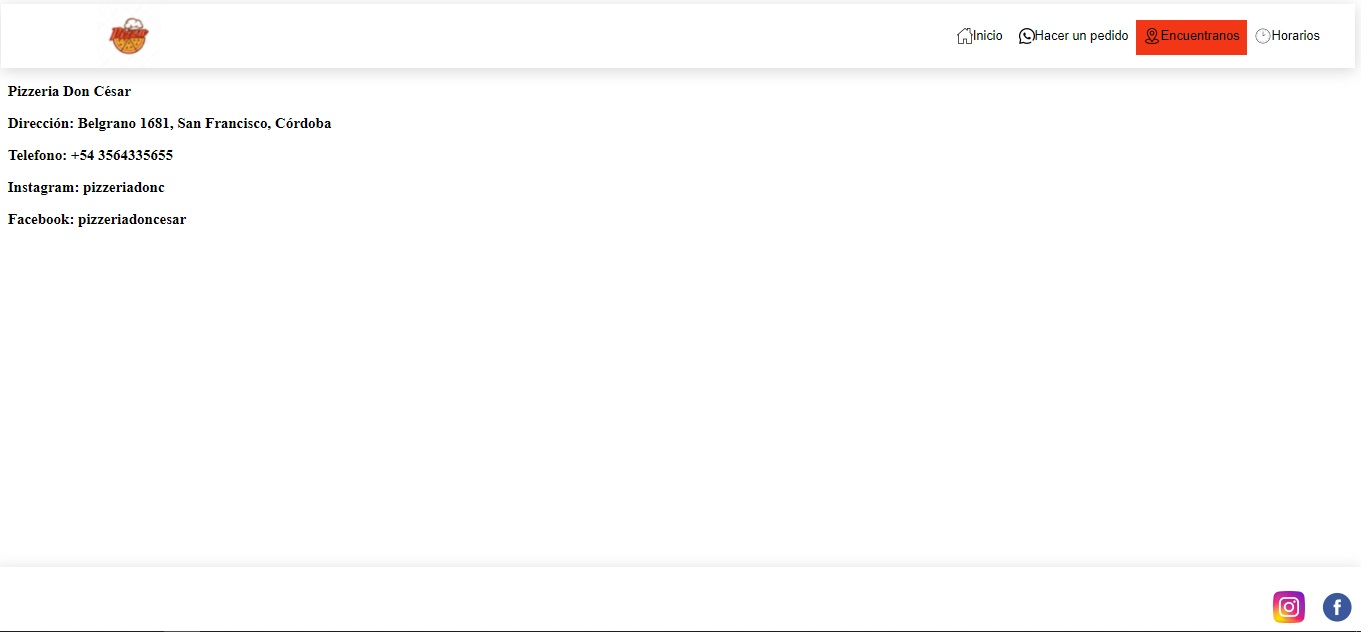
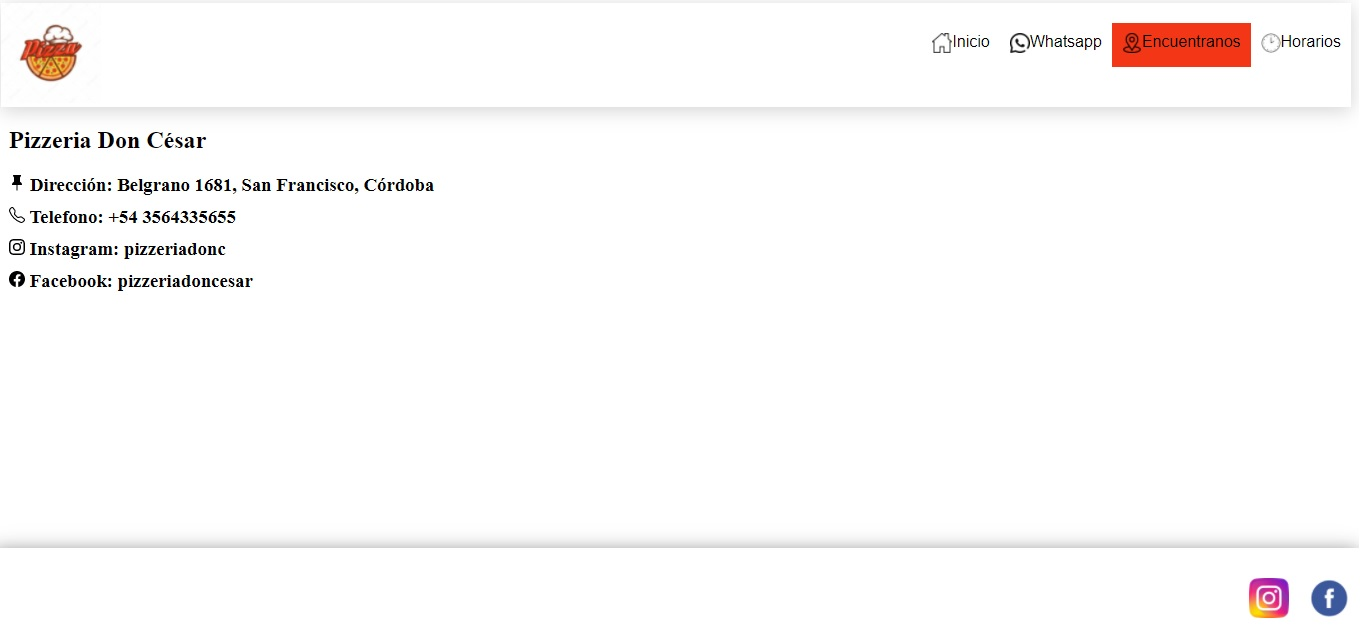
adjustFooter

diff --git a/src/app/componentes/contact/contact.component.html b/src/app/componentes/contact/contact.component.html
@@ -1,6 +1,36 @@
-<h3>Pizzeria Don César</h3>
-<h3>Dirección: Belgrano 1681, San Francisco, Córdoba
-</h3>
-<h3>Telefono: +54 3564335655</h3>
-<h3>Instagram: pizzeriadonc</h3>
-<h3>Facebook: pizzeriadoncesar</h3>
+
+<div>
+    <h2>Pizzeria Don César</h2>
+</div>
+
+
+<div class="d-flex">
+    <svg xmlns="http://www.w3.org/2000/svg" width="16" height="16" fill="currentColor" class="bi bi-pin-fill" viewBox="0 0 16 16">
+        <path d="M4.146.146A.5.5 0 0 1 4.5 0h7a.5.5 0 0 1 .5.5c0 .68-.342 1.174-.646 1.479-.126.125-.25.224-.354.298v4.431l.078.048c.203.127.476.314.751.555C12.36 7.775 13 8.527 13 9.5a.5.5 0 0 1-.5.5h-4v4.5c0 .276-.224 1.5-.5 1.5s-.5-1.224-.5-1.5V10h-4a.5.5 0 0 1-.5-.5c0-.973.64-1.725 1.17-2.189A5.921 5.921 0 0 1 5 6.708V2.277a2.77 2.77 0 0 1-.354-.298C4.342 1.674 4 1.179 4 .5a.5.5 0 0 1 .146-.354z"/>
+      </svg>
+      <h3>   Dirección: Belgrano 1681, San Francisco, Córdoba</h3>
+</div>
+
+
+
+<div class="d-flex">
+    <svg xmlns="http://www.w3.org/2000/svg" width="16" height="16" fill="currentColor" class="bi bi-telephone" viewBox="0 0 16 16">
+        <path d="M3.654 1.328a.678.678 0 0 0-1.015-.063L1.605 2.3c-.483.484-.661 1.169-.45 1.77a17.568 17.568 0 0 0 4.168 6.608 17.569 17.569 0 0 0 6.608 4.168c.601.211 1.286.033 1.77-.45l1.034-1.034a.678.678 0 0 0-.063-1.015l-2.307-1.794a.678.678 0 0 0-.58-.122l-2.19.547a1.745 1.745 0 0 1-1.657-.459L5.482 8.062a1.745 1.745 0 0 1-.46-1.657l.548-2.19a.678.678 0 0 0-.122-.58L3.654 1.328zM1.884.511a1.745 1.745 0 0 1 2.612.163L6.29 2.98c.329.423.445.974.315 1.494l-.547 2.19a.678.678 0 0 0 .178.643l2.457 2.457a.678.678 0 0 0 .644.178l2.189-.547a1.745 1.745 0 0 1 1.494.315l2.306 1.794c.829.645.905 1.87.163 2.611l-1.034 1.034c-.74.74-1.846 1.065-2.877.702a18.634 18.634 0 0 1-7.01-4.42 18.634 18.634 0 0 1-4.42-7.009c-.362-1.03-.037-2.137.703-2.877L1.885.511z"/>
+      </svg>
+    <h3>   Telefono: +54 3564335655</h3>
+</div>
+
+
+<div class="d-flex">
+    <svg xmlns="http://www.w3.org/2000/svg" width="16" height="16" fill="currentColor" class="bi bi-instagram" viewBox="0 0 16 16">
+        <path d="M8 0C5.829 0 5.556.01 4.703.048 3.85.088 3.269.222 2.76.42a3.917 3.917 0 0 0-1.417.923A3.927 3.927 0 0 0 .42 2.76C.222 3.268.087 3.85.048 4.7.01 5.555 0 5.827 0 8.001c0 2.172.01 2.444.048 3.297.04.852.174 1.433.372 1.942.205.526.478.972.923 1.417.444.445.89.719 1.416.923.51.198 1.09.333 1.942.372C5.555 15.99 5.827 16 8 16s2.444-.01 3.298-.048c.851-.04 1.434-.174 1.943-.372a3.916 3.916 0 0 0 1.416-.923c.445-.445.718-.891.923-1.417.197-.509.332-1.09.372-1.942C15.99 10.445 16 10.173 16 8s-.01-2.445-.048-3.299c-.04-.851-.175-1.433-.372-1.941a3.926 3.926 0 0 0-.923-1.417A3.911 3.911 0 0 0 13.24.42c-.51-.198-1.092-.333-1.943-.372C10.443.01 10.172 0 7.998 0h.003zm-.717 1.442h.718c2.136 0 2.389.007 3.232.046.78.035 1.204.166 1.486.275.373.145.64.319.92.599.28.28.453.546.598.92.11.281.24.705.275 1.485.039.843.047 1.096.047 3.231s-.008 2.389-.047 3.232c-.035.78-.166 1.203-.275 1.485a2.47 2.47 0 0 1-.599.919c-.28.28-.546.453-.92.598-.28.11-.704.24-1.485.276-.843.038-1.096.047-3.232.047s-2.39-.009-3.233-.047c-.78-.036-1.203-.166-1.485-.276a2.478 2.478 0 0 1-.92-.598 2.48 2.48 0 0 1-.6-.92c-.109-.281-.24-.705-.275-1.485-.038-.843-.046-1.096-.046-3.233 0-2.136.008-2.388.046-3.231.036-.78.166-1.204.276-1.486.145-.373.319-.64.599-.92.28-.28.546-.453.92-.598.282-.11.705-.24 1.485-.276.738-.034 1.024-.044 2.515-.045v.002zm4.988 1.328a.96.96 0 1 0 0 1.92.96.96 0 0 0 0-1.92zm-4.27 1.122a4.109 4.109 0 1 0 0 8.217 4.109 4.109 0 0 0 0-8.217zm0 1.441a2.667 2.667 0 1 1 0 5.334 2.667 2.667 0 0 1 0-5.334z"/>
+    </svg>
+    <h3>   Instagram: pizzeriadonc</h3>
+</div>
+
+<div class="d-flex">
+    <svg xmlns="http://www.w3.org/2000/svg" width="16" height="16" fill="currentColor" class="bi bi-facebook" viewBox="0 0 16 16">
+        <path d="M16 8.049c0-4.446-3.582-8.05-8-8.05C3.58 0-.002 3.603-.002 8.05c0 4.017 2.926 7.347 6.75 7.951v-5.625h-2.03V8.05H6.75V6.275c0-2.017 1.195-3.131 3.022-3.131.876 0 1.791.157 1.791.157v1.98h-1.009c-.993 0-1.303.621-1.303 1.258v1.51h2.218l-.354 2.326H9.25V16c3.824-.604 6.75-3.934 6.75-7.951z"/>
+    </svg>
+    <h3>   Facebook: pizzeriadoncesar</h3>
+</div>

diff --git a/src/app/componentes/header/header.component.css b/src/app/componentes/header/header.component.css
@@ -56,6 +56,8 @@ a:visited {color: black;font-size: large ; text-decoration: none }
         background-color: #fff;
         width: 100%;
         height: auto;
+        
+    
         box-shadow: 0 .2rem 1.2rem rgba(0, 0, 0, 0.175);
       
     }
@@ -66,7 +68,7 @@ a:visited {color: black;font-size: large ; text-decoration: none }
          cursor: pointer;
          height: auto;
         width: 100px;
-        margin-left: 35%;
+       
         
         
         }
@@ -75,7 +77,7 @@ a:visited {color: black;font-size: large ; text-decoration: none }
          .header {
              align-items: center;
          flex-direction: column;
-         font-size: 15px;
+         font-size: 13px;
             }
               
           }

diff --git a/src/app/componentes/footer/footer.component.css b/src/app/componentes/footer/footer.component.css
@@ -4,14 +4,14 @@
   
     display: flex;
     justify-content:end;
-    background-color: #fff;
+    background-color: rgba(255, 255, 255, 0.678);
     width: 100%;
     height: 80px;
     position:fixed;
     bottom: 0;
     left: 0;
     right: 0;
-    box-shadow: 0 .2rem 1.2rem rgba(15,15,15,.175);
+    box-shadow: 0 .2rem 1.2rem rgba(15, 15, 15, 0.534);
 
 }
 

diff --git a/src/app/componentes/about/about.component.html b/src/app/componentes/about/about.component.html
@@ -10,7 +10,9 @@
         </div>
         
         <div>
+            
            <img src="https://www.infobae.com/new-resizer/Lr3uGNGmkgcyXyftaNcwIZ-4Da4=/s3.amazonaws.com/arc-wordpress-client-uploads/infobae-wp/wp-content/uploads/2019/06/06185430/1980-pizzeria-.jpg" alt="">
+           
         </div>
 
     </div>

diff --git a/src/app/componentes/header/header.component.html b/src/app/componentes/header/header.component.html
@@ -24,7 +24,8 @@
             </div>
 
             <div>
-               Hacer un pedido
+               Whatsapp
+            
             </div> 
 
             </a>

diff --git a/src/app/componentes/about/about.component.css b/src/app/componentes/about/about.component.css
@@ -18,6 +18,7 @@ h1 {
     cursor: pointer;
     border-radius: 20px;
     box-sizing: border-box;
+    
  
 }
 

diff --git a/src/app/componentes/contact/contact.component.css b/src/app/componentes/contact/contact.component.css
@@ -1,0 +1,7 @@
+
+div {
+    margin-top: 10px;
+}
+.d-flex h3 {
+    display: inline;
+}

diff --git a/src/app/app.component.html b/src/app/app.component.html
@@ -8,5 +8,7 @@
 
 </body>
 
+
 <Footer></Footer>
+
 </div>

diff --git a/src/app/app.component.css b/src/app/app.component.css
@@ -1,0 +1,4 @@
+
+body {
+    margin-bottom: 100px;
+}
